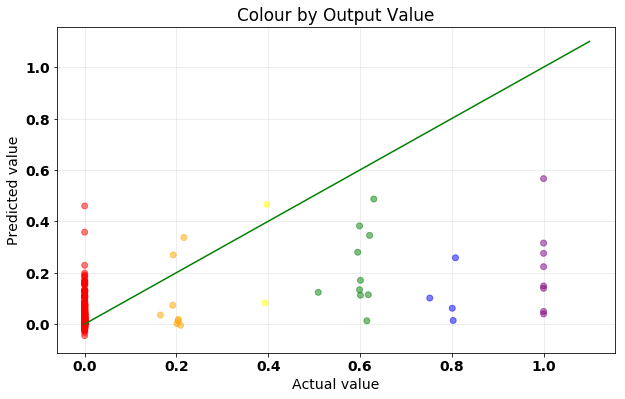
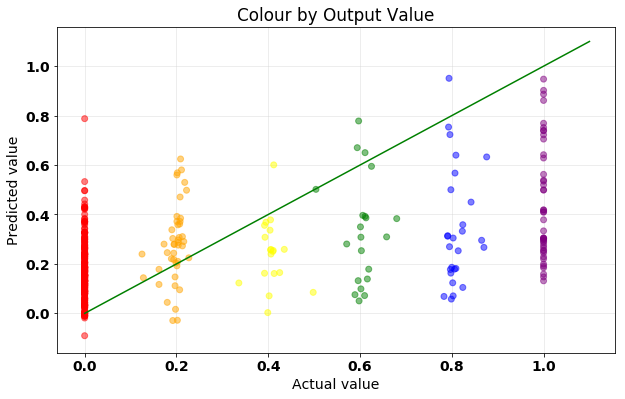
Visualisation of the 4th output -  s4,"Positive"
Result using LGBM predictive model
with the 4th output - s4,"Positive"

Trained model by the Spre-processing vectors

Visualised with 400 data points

diff --git a/sandbox/champ/visualise/reflect_data.py b/sandbox/champ/visualise/reflect_data.py
@@ -169,8 +169,9 @@ def create_lgbm_model(x_train, y_train):
 # =============================================================================
 
 # Fixing random state for reproducibility
-np.random.seed(123)
+np.random.seed(148)
 
+# number of columns for the output data
 n_output = 24
 
 num_data = read_train_Spre_data()
@@ -191,7 +192,7 @@ tr_nrows = round(all_nrows*tr_percent) - 1
 test_nrows = all_nrows - tr_nrows 
 
 # set number of points to be visualized in the graph 
-n_point = 400
+n_point = test_nrows
 n_pt = n_point - 1
 
 # =============================================================================
@@ -201,6 +202,10 @@ n_pt = n_point - 1
 #xtr,ytr,xts,yts = split_train_test(x,y,tr_nrows)
 #xtr,ytr,xts,yts = split_train_testcut(x,y,tr_nrows,n_point)
 xtr,ytr,xts,yts = split_train_testcutrand(x,y,tr_nrows,n_point)
+
+
+# select 1 output from the 24 outputs
+slt_output_col = 3   # selected output column
 
 ## =============================================================================
 
@@ -216,12 +221,12 @@ xtr,ytr,xts,yts = split_train_testcutrand(x,y,tr_nrows,n_point)
 # transform the result to DataFrame
 #yhts = pd.DataFrame(yhts)
 #
-#yhts_sel = yhts.loc[0:n_pt,23]
+#yhts_sel = yhts.iloc[0:n_pt,slt_output_col]
 
 ## =============================================================================
 
 # selected output column to train the model
-ytr_sel = ytr.loc[:,123]
+ytr_sel = ytr.iloc[:,slt_output_col]
 
 # create and train the LightGBM model
 clf = create_lgbm_model(xtr,ytr_sel)
@@ -230,7 +235,7 @@ clf = create_lgbm_model(xtr,ytr_sel)
 yhts_sel = clf.predict(xts)
 
 #======Actual output
-yts_sel = yts.iloc[:,23]
+yts_sel = yts.iloc[:,slt_output_col]
 
 # transform the result to DataFrame
 yhts_sel = pd.DataFrame(yhts_sel)
@@ -288,7 +293,7 @@ plt.show()
 
 ###   y.loc[:,123] 
 ###   This means allo rows of the column 123 (124th column)
-###     in the DataFrame y.
+###     in the DataFrame y refer by the label of the column
 
 # =============================================================================
 # Color code
